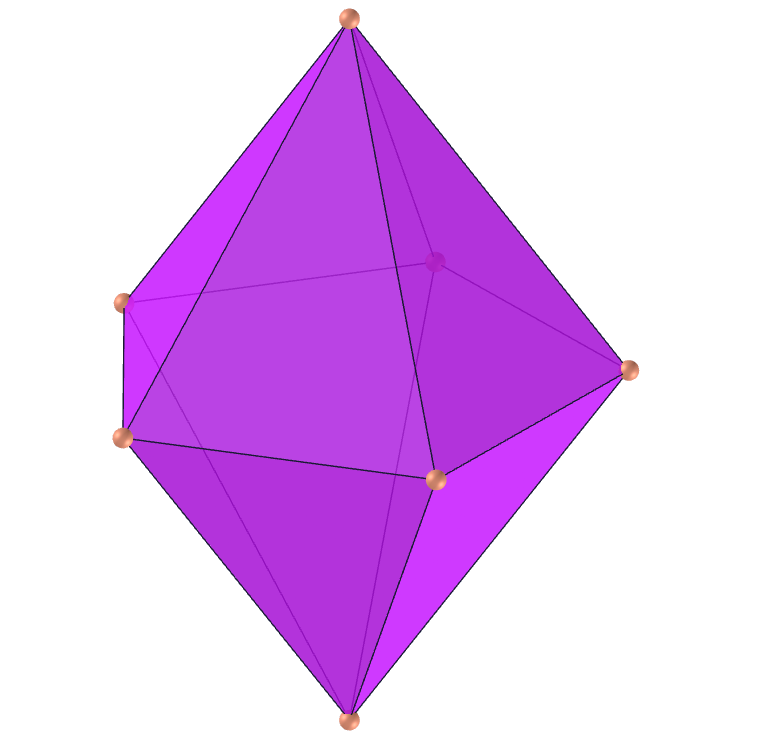
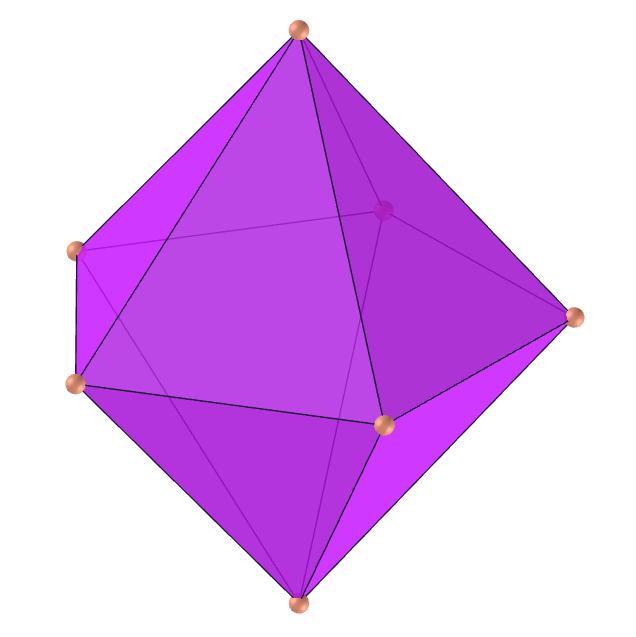
updt

diff --git a/vr/pentagonal_dipyramid.htm b/vr/pentagonal_dipyramid.htm
@@ -13,11 +13,11 @@
 			<a-mixin id="mtl9" material="color: #F79F81; side:double;"></a-mixin>
 			<a-mixin id="mtl0p" material="opacity: 0.2; roughness: 0.9; metalness: 0.3;"></a-mixin>
 			<a-mixin id="texto" text="width: 4; side:double; color: black" rotation="-25 0 0">
-			<a-mixin id="esfera" geometry="radius: 0.039;" material="metalness:0.4; roughness:0.5;"></a-mixin>
+			<a-mixin id="esfera" geometry="radius: 0.034;" material="metalness:0.4; roughness:0.5;"></a-mixin>
 			<a-asset-item id="material" src="outros/solidos.mtl"></a-asset-item>
 		</a-assets>
 				
-		<a-entity position="0 0 0" rotation="90 -5 0" scale="3.5 3.5 3.5">
+		<a-entity position="0 0 0" rotation="90 -5 0" scale="4 4 4">
 			<a-obj-model src="outros/PentagonalDipyramid.obj" mtl="#material" scale="0.997 0.997 0.997"></a-obj-model>
 			<a-obj-model src="outros/PentagonalDipyramidL.obj" mtl="#material"></a-obj-model>
 			<a-sphere mixin='esfera mtl9' position='0.0 0.0 -1.2'></a-sphere>
